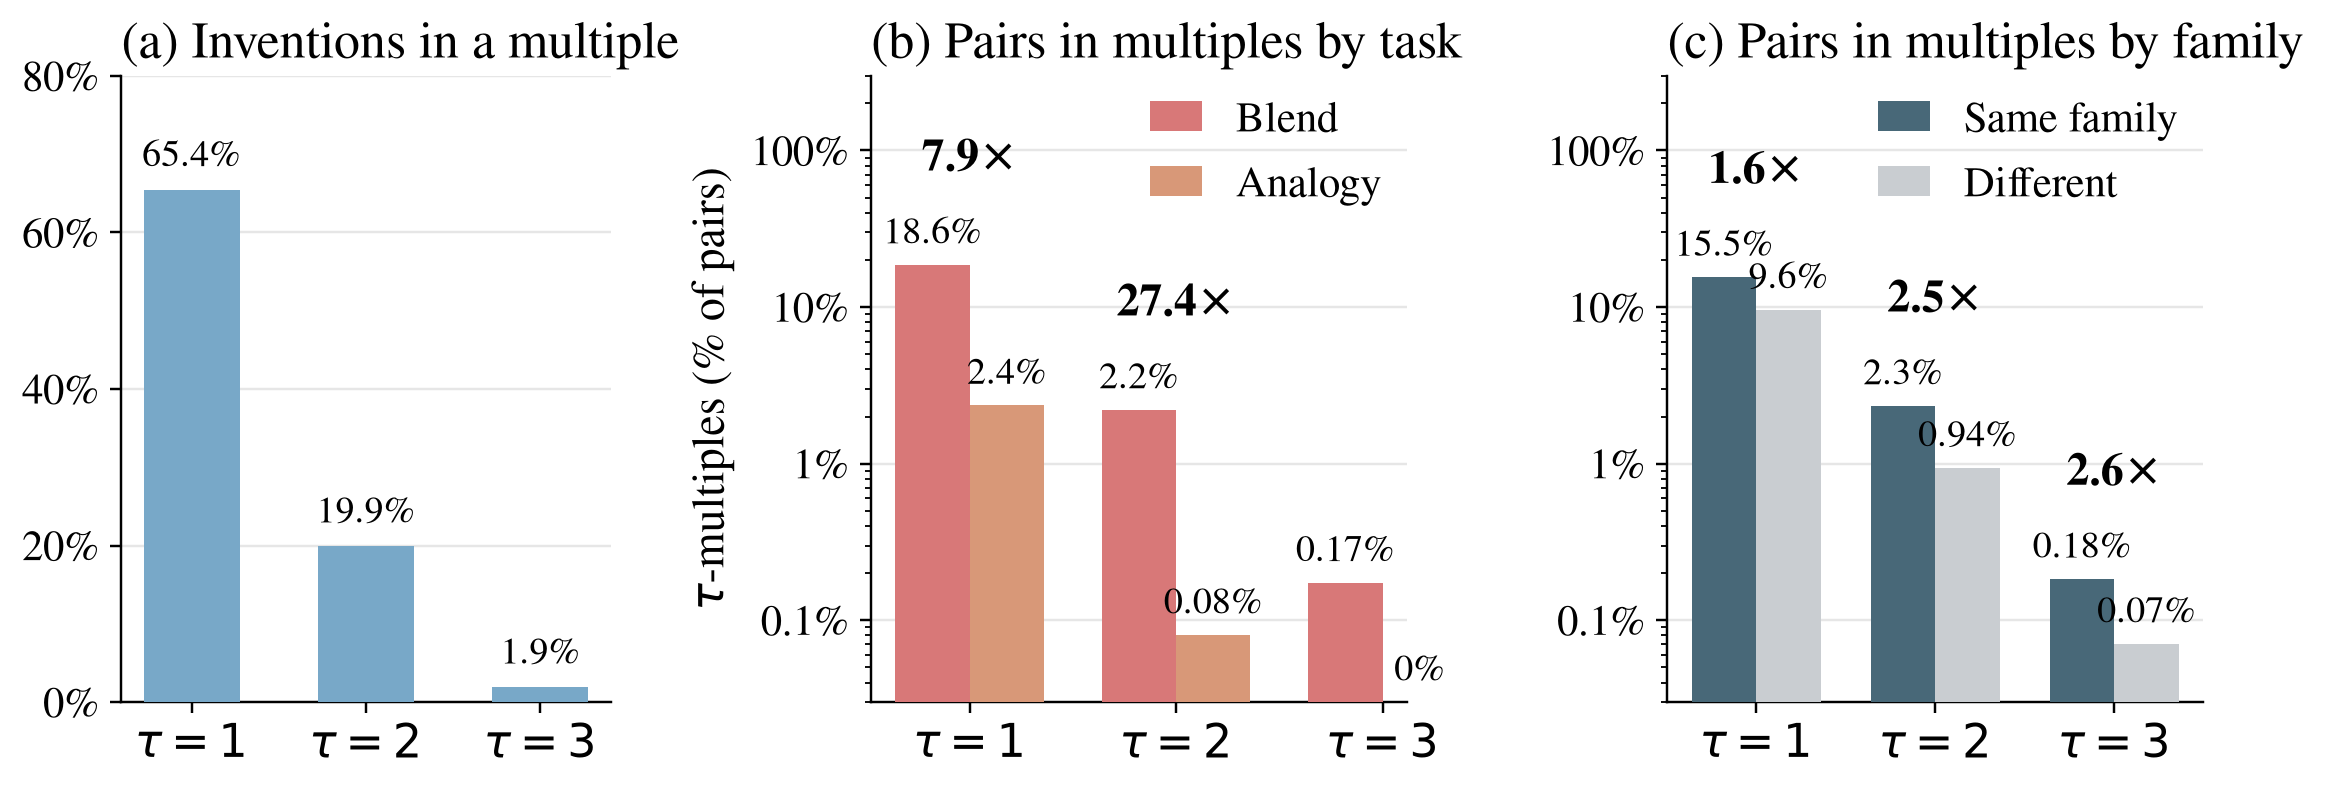
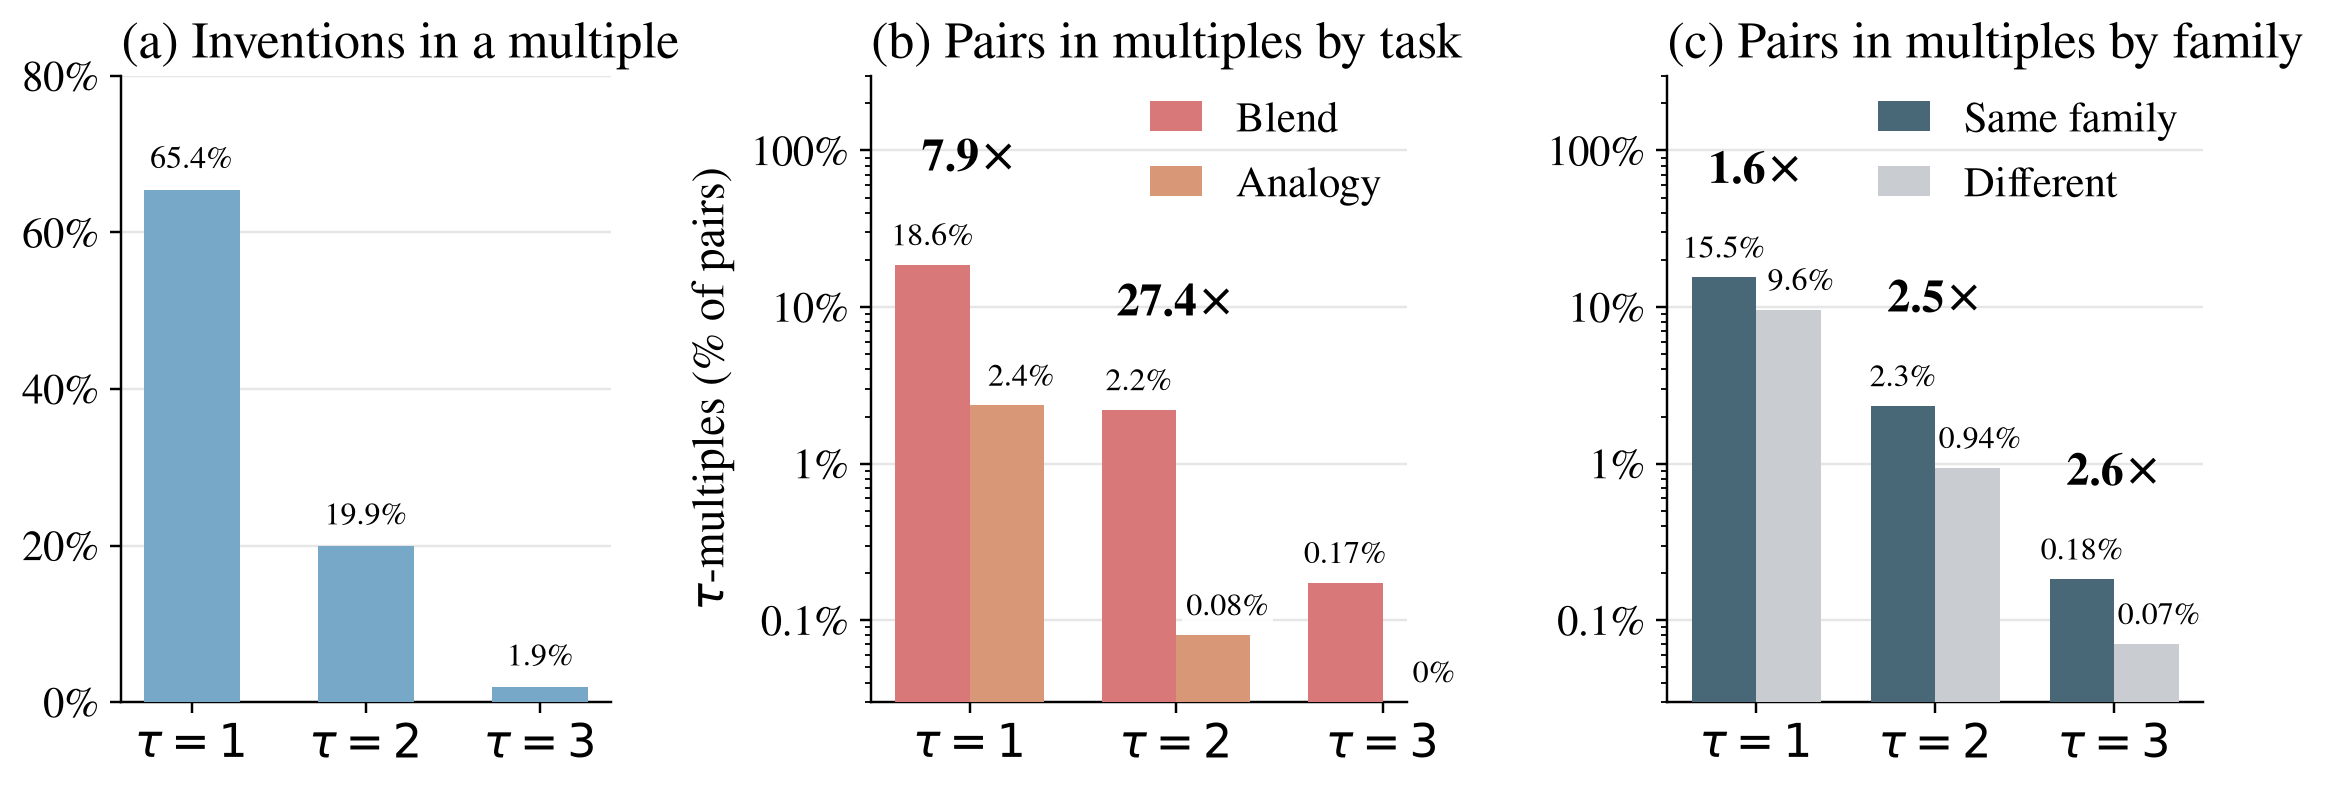
plot_tau_multiples: smaller value labels, nudged off the taller neighbour, white backing

diff --git a/src/kg_creat/scripts/plot_tau_multiples.py b/src/kg_creat/scripts/plot_tau_multiples.py
@@ -30,13 +30,17 @@ YMIN = 0.03                                      # log-axis floor; a zero rate i
 
 def bars(ax, taus, left, right, left_lab, right_lab, cl, cr, ratio_key=None, log=True):
     x = np.arange(len(taus)); w = 0.36
-    for off, vals, lab, c in ((-w / 2, left, left_lab, cl), (w / 2, right, right_lab, cr)):
-        v = np.array(vals, float); pos = x + off
-        ax.bar(pos[v > 0], v[v > 0], w, color=c, label=lab, edgecolor="none", zorder=3)
-        for xi, vi in zip(pos, v):
+    L, Rv = np.array(left, float), np.array(right, float)
+    for off, vals, lab, c, side in ((-w / 2, L, left_lab, cl, -1), (w / 2, Rv, right_lab, cr, +1)):
+        pos = x + off
+        ax.bar(pos[vals > 0], vals[vals > 0], w, color=c, label=lab, edgecolor="none", zorder=3)
+        for k, (xi, vi) in enumerate(zip(pos, vals)):
             y = (vi * 1.15) if vi > 0 else YMIN * 1.15
-            lab = "0%" if vi == 0 else (f"{vi:.2f}%" if vi < 1 else f"{vi:.1f}%")
-            ax.text(xi, y, lab, ha="center", va="bottom", fontsize=12.5, color="black")
+            txt = "0%" if vi == 0 else (f"{vi:.2f}%" if vi < 1 else f"{vi:.1f}%")
+            other = Rv[k] if side < 0 else L[k]
+            nudge = side * 0.07 if other > vi else 0.0        # the shorter bar's label steps away from its taller neighbour
+            ax.text(xi + nudge, y, txt, ha="center", va="bottom", fontsize=10.5, color="black", zorder=5,
+                    bbox=dict(boxstyle="square,pad=0.12", facecolor="white", edgecolor="none", alpha=0.9))
     if ratio_key:
         for xi, (l, r) in enumerate(zip(left, right)):
             if r > 0:
@@ -57,7 +61,7 @@ def main():
     fig, axes = plt.subplots(1, 3, figsize=(10.4, 3.9), gridspec_kw={"width_ratios": [1.05, 1.15, 1.15]})
     ax = axes[0]; v = [rows[t]["inventions_pct"] for t in taus]; x = np.arange(3)
     ax.bar(x, v, 0.55, color=INV, zorder=3)
-    for xi, vi in zip(x, v): ax.text(xi, vi + 1.5, f"{vi:.1f}%", ha="center", va="bottom", fontsize=12.5, color="black")
+    for xi, vi in zip(x, v): ax.text(xi, vi + 1.5, f"{vi:.1f}%", ha="center", va="bottom", fontsize=10.5, color="black")
     ax.set_xticks(x); ax.set_xticklabels([f"$\\tau={t}$" for t in taus], fontsize=15); ax.set_ylim(0, 80)
     ax.set_yticks([0, 20, 40, 60, 80]); ax.set_yticklabels([f"{t}%" for t in (0, 20, 40, 60, 80)], fontsize=14)
     ax.set_title("(a) Inventions in a multiple", loc="left", fontsize=17)
